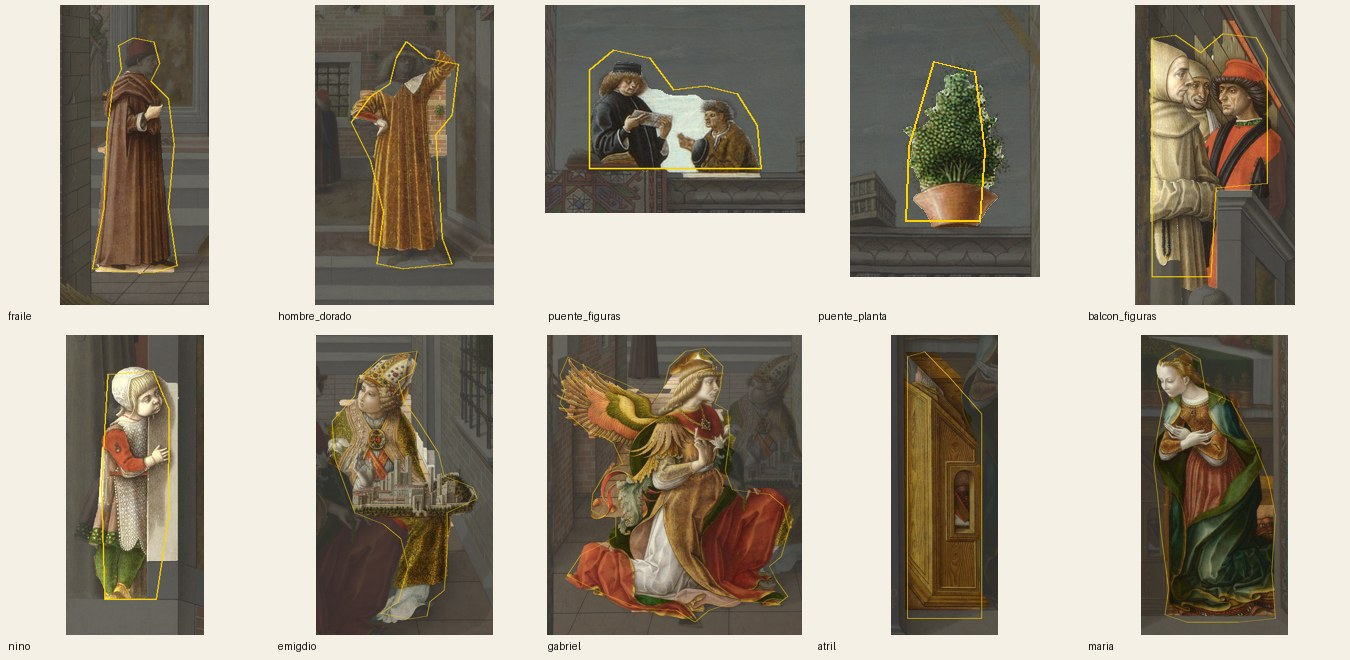
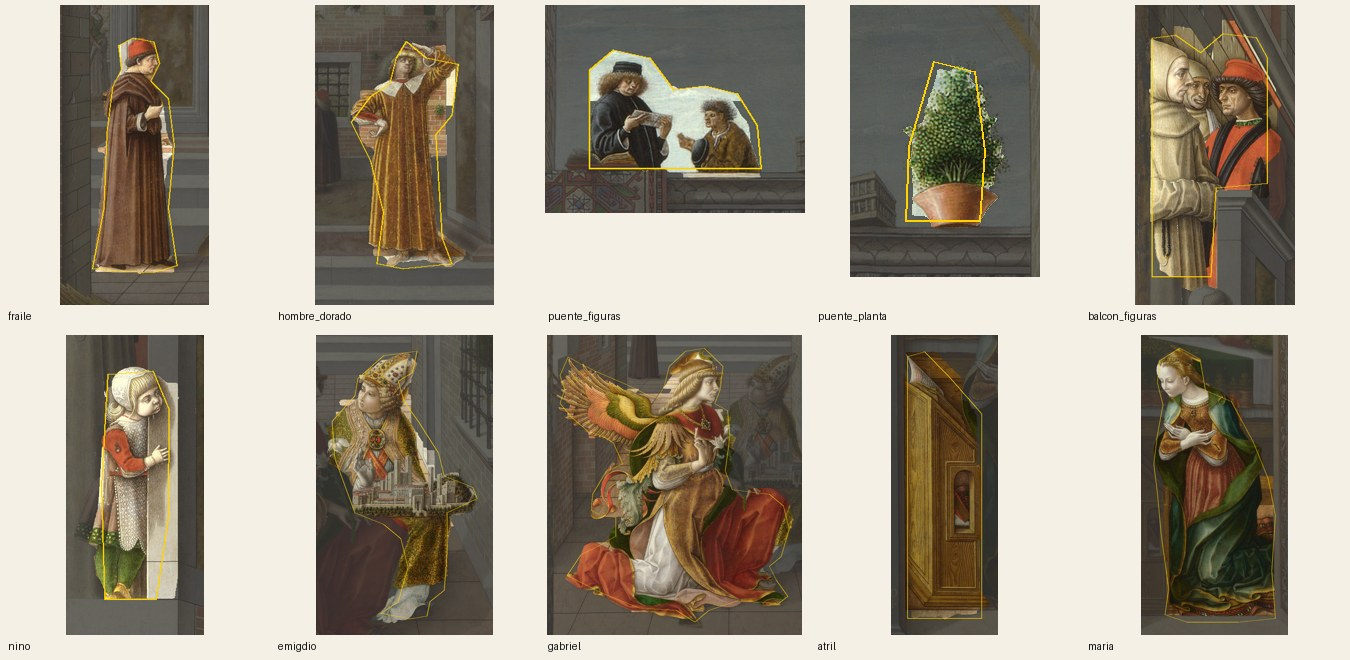
fix: keep figure heads, fill hidden figure parts and release stuck keys
GrabCut now uses a size-adaptive core plus a per-figure keepAbove option so small figures keep their heads and Mary keeps her hair; hidden parts of figures use their inpainted texture in neutral mode; walk keys are released on blur, visibility and pointer-lock changes.

diff --git a/src/core/projectiveMaterial.js b/src/core/projectiveMaterial.js
@@ -15,7 +15,7 @@ export const FILL_MODES = { fiel: 0, neutro: 1, inferido: 2 };
  * ojo con la del mapa de profundidad visto desde el ojo. Si algo lo tapaba en la
  * pintura, el pintor nunca vio ese trozo. Qué se muestra ahí depende del modo:
  *   fiel     -> nada (el fragmento se descarta: se ve el hueco de información)
- *   neutro   -> color yeso
+ *   neutro   -> color yeso (salvo en los huecos chicos de las figuras: inpainting)
  *   inferido -> la textura plana horneada por analysis/infer.py (regla o inpainting)
  */
 export function createProjectiveMaterial(shared, perElement) {
@@ -42,6 +42,7 @@ export function createProjectiveMaterial(shared, perElement) {
       uniform sampler2D uDepth;
       uniform sampler2D uInferred;  // textura plana del elemento (vista + inferida)
       uniform vec3 uBackColor;      // reverso de los cartones en el modo inferido
+      uniform float uIsFigure;      // 1 = cartón de una figura
       uniform float uNear;
       uniform float uFar;
       uniform float uMode;          // 0 fiel, 1 neutro, 2 inferido
@@ -83,7 +84,10 @@ export function createProjectiveMaterial(shared, perElement) {
         vec3 color;
         if (seen) {
           color = texture2D(uPainting, uv).rgb;
-        } else if (uMode > 1.5) {
+        } else if (uMode > 1.5 || (uIsFigure > 0.5 && gl_FrontFacing)) {
+          // En las figuras lo oculto son huecos chicos (un brazo que tapaba otra
+          // figura): ahí el inpainting reconstruye bien, así que se usa también en
+          // el modo neutro para no agujerear los cartones.
           color = gl_FrontFacing ? texture2D(uInferred, vUv).rgb : uBackColor * light;
         } else {
           color = uNeutral * light * (gl_FrontFacing ? 1.0 : 0.78);

diff --git a/src/app/Viewer.js b/src/app/Viewer.js
@@ -81,8 +81,19 @@ export class Viewer {
     this.renderer.domElement.addEventListener('click', () => {
       if (this.mode === 'walk' && !this.animation) this.pointerLock.lock();
     });
-    window.addEventListener('keydown', (e) => this.keys.add(e.code));
+    // Teclas apretadas. Si la ventana pierde el foco (Esc del pointer lock, cambio
+    // de pestaña, clic en el panel) el navegador no envía "keyup" y la tecla quedaría
+    // apretada para siempre: por eso se vacía el conjunto en esos casos.
+    const typing = (e) => e.target instanceof HTMLElement && e.target.closest('input, select, textarea');
+    window.addEventListener('keydown', (e) => {
+      if (!typing(e) && !e.repeat) this.keys.add(e.code);
+    });
     window.addEventListener('keyup', (e) => this.keys.delete(e.code));
+    const releaseAll = () => this.keys.clear();
+    window.addEventListener('blur', releaseAll);
+    document.addEventListener('visibilitychange', releaseAll);
+    document.addEventListener('pointerlockchange', releaseAll);
+    this.renderer.domElement.addEventListener('contextmenu', releaseAll);
 
     this.timer = new THREE.Timer();
     this.resize();
@@ -109,6 +120,7 @@ export class Viewer {
       const material = createProjectiveMaterial(this.uniforms, {
         uInferred: { value: inferred?.textures.get(el.id) ?? null },
         uBackColor: { value: new THREE.Color(info?.backColor ?? '#6e6456') },
+        uIsFigure: { value: el.kind === 'figure' ? 1 : 0 },
       });
       const mesh = new THREE.Mesh(geometry, material);
       mesh.name = el.id;

diff --git a/analysis/segment.py b/analysis/segment.py
@@ -10,6 +10,10 @@ modelando sus colores con mezclas de gaussianas y cortando un grafo:
   - figura probable: dentro del ROI
   - figura segura:   el ROI erosionado (el centro del cuerpo)
 
+Opciones por figura en scene.json ("segment"): "core" fija la erosión del núcleo y
+"keepAbove" conserva el ROI por encima de esa fila (cabezas o cabellos que GrabCut
+confunde con el fondo).
+
 El contorno del resultado (simplificado a ~1,5 px) reemplaza al polígono; el
 original se conserva en "roi" para poder repetir el proceso. Si una silueta no
 convence, se corrige a mano con analysis/marcador.html (modo polígonos).
@@ -31,7 +35,7 @@ from PIL import Image, ImageDraw
 ROOT = Path(__file__).resolve().parent.parent
 SCENE = ROOT / "public/data/scene.json"
 BAND = 28        # px: franja de "fondo probable" alrededor del ROI
-CORE = 34        # px: erosión para la "figura segura"
+CORE = 34        # px: erosión máxima para la "figura segura" (se adapta al tamaño)
 EPS = 1.5        # px: tolerancia de simplificación del contorno
 MIN_AREA = 400   # px²: componentes o huecos menores se descartan
 
@@ -58,9 +62,14 @@ def segment(img, el):
     local_holes = [[[p[0] - x0, p[1] - y0] for p in h] for h in holes]
     roi = roi_mask(crop.shape, local, local_holes)
 
+    opts = el.get("segment", {})
     k = lambda r: cv2.getStructuringElement(cv2.MORPH_ELLIPSE, (2 * r + 1, 2 * r + 1))
     dil = cv2.dilate(roi, k(BAND))
-    core = cv2.erode(roi, k(CORE))
+    # Núcleo "figura segura" proporcional al tamaño: en figuras chicas una erosión
+    # fija de 34 px se comía la cabeza entera y GrabCut la podía descartar.
+    bw, bh = pts.max(axis=0) - pts.min(axis=0)
+    core_r = int(opts.get("core", np.clip(0.07 * min(bw, bh), 6, CORE)))
+    core = cv2.erode(roi, k(core_r))
     mask = np.full(roi.shape, cv2.GC_BGD, np.uint8)
     mask[dil > 0] = cv2.GC_PR_BGD
     mask[roi > 0] = cv2.GC_PR_FGD
@@ -72,6 +81,11 @@ def segment(img, el):
     # Limpieza: cerrar grietas finas y quedarse con la componente principal
     fg = cv2.morphologyEx(fg, cv2.MORPH_CLOSE, k(3))
     fg = cv2.morphologyEx(fg, cv2.MORPH_OPEN, k(2))
+    # Por encima de la fila "keepAbove" (cabezas, cabellos, aureolas) GrabCut confunde
+    # la figura con el fondo de color parecido: ahí se conserva el ROI trazado a mano.
+    if "keepAbove" in opts:
+        top = max(0, min(roi.shape[0], int(opts["keepAbove"]) - y0))
+        fg[:top] = np.maximum(fg[:top], roi[:top])
     n, lab, stats, _ = cv2.connectedComponentsWithStats(fg)
     if n > 1:
         main = 1 + int(np.argmax(stats[1:, cv2.CC_STAT_AREA]))
